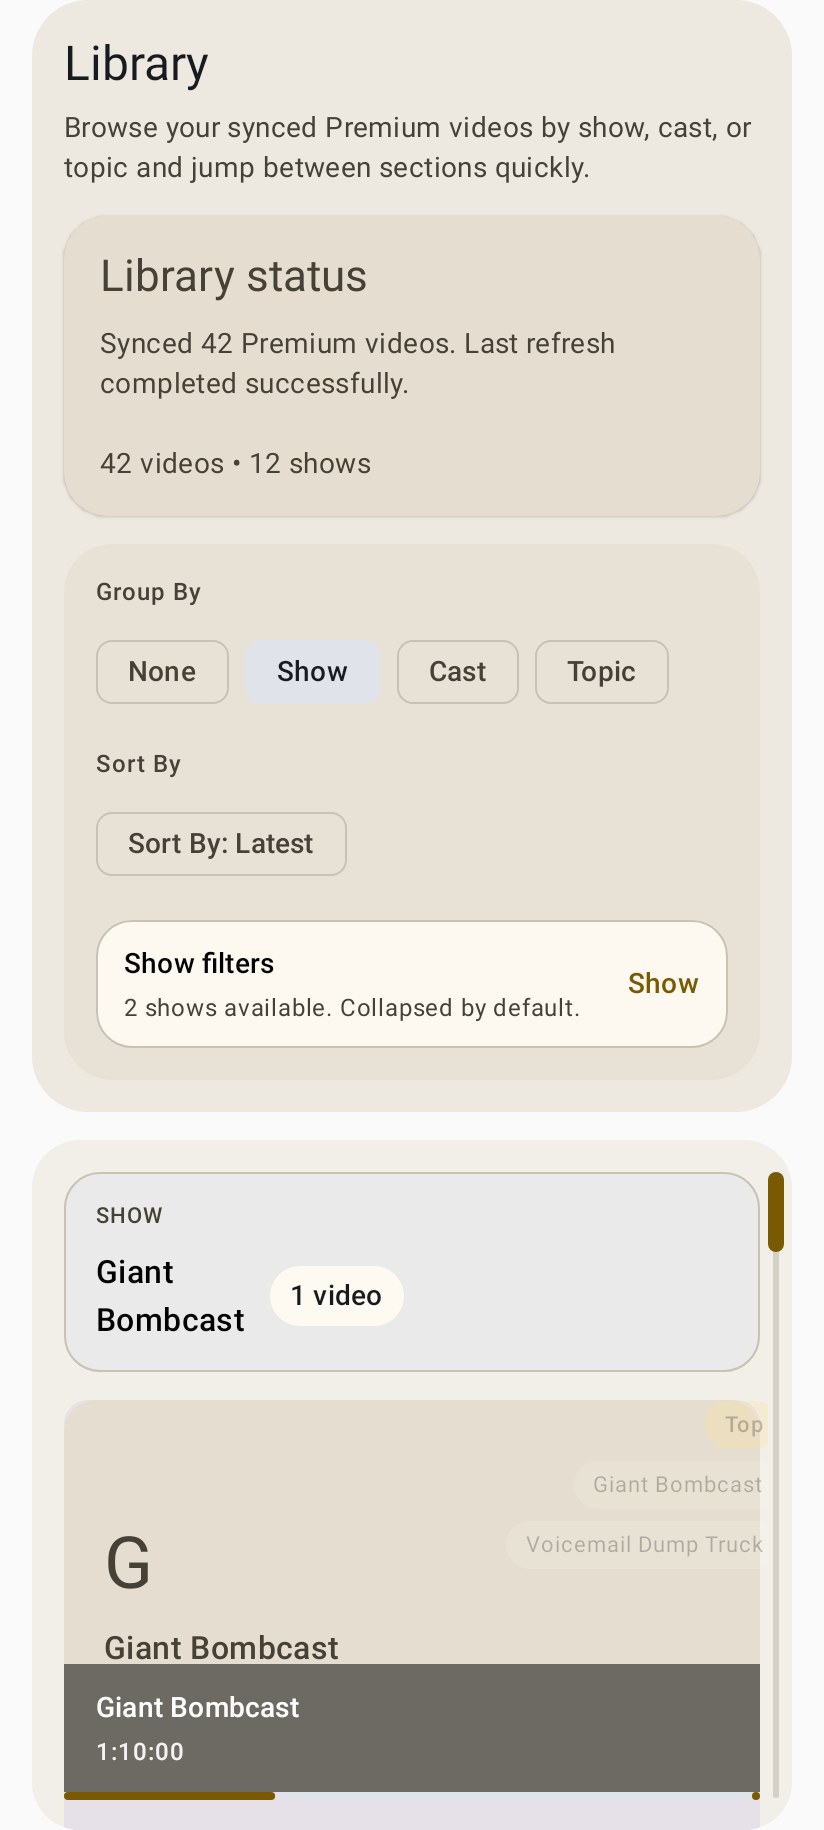
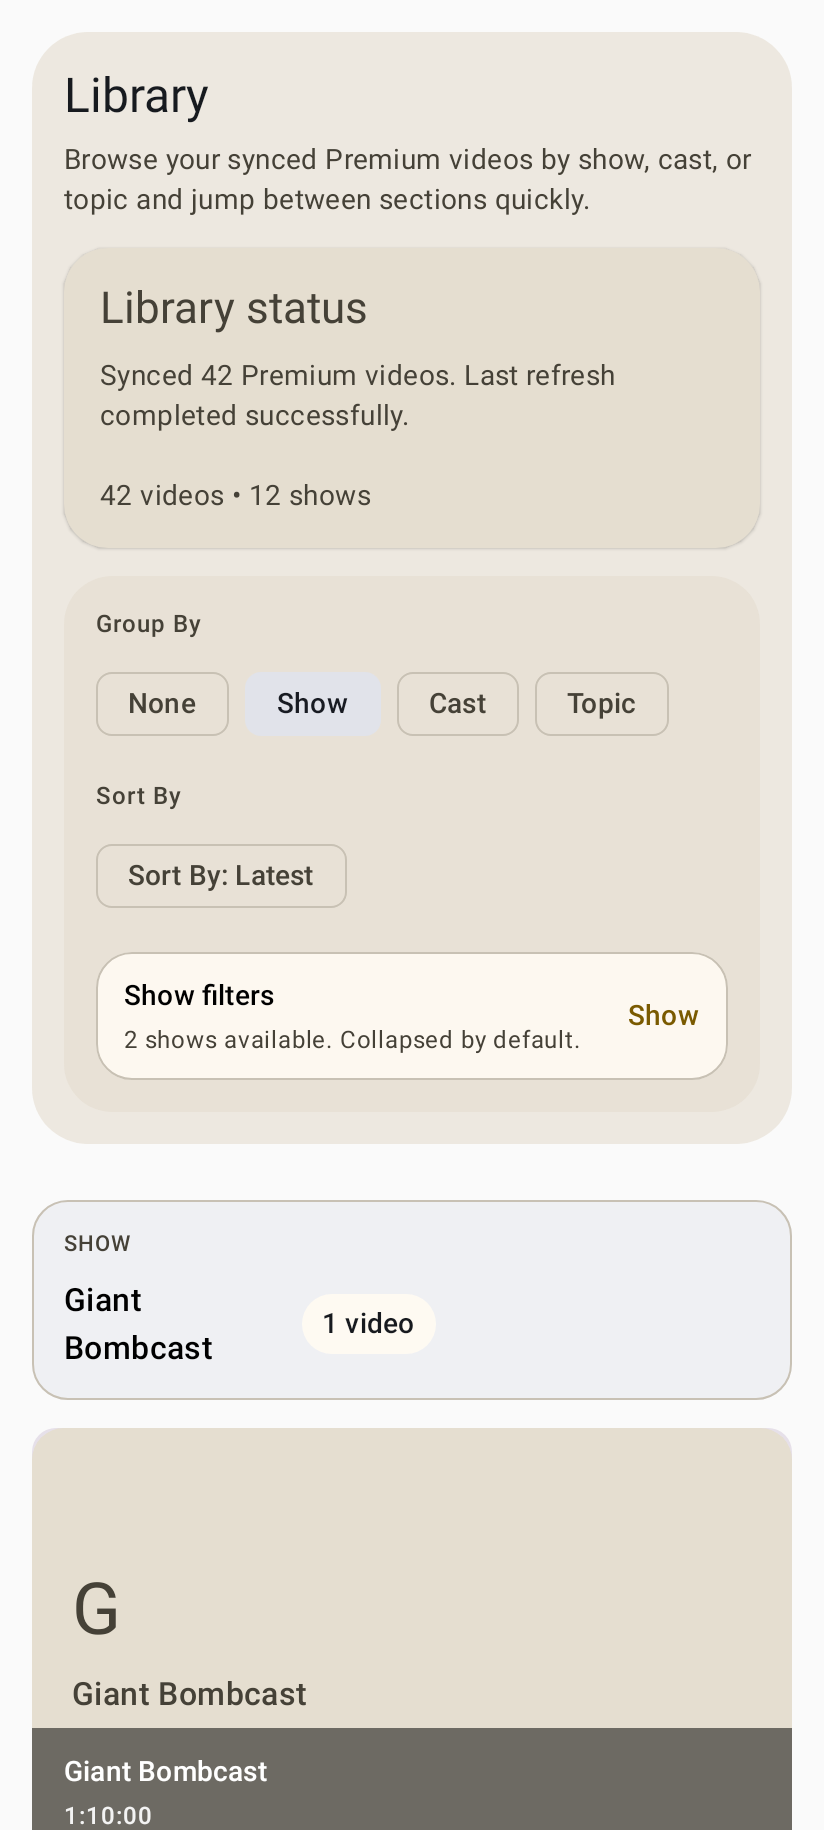
Unify library scrolling input handling

diff --git a/feature/library/src/main/java/com/looktube/feature/library/LibraryRoute.kt b/feature/library/src/main/java/com/looktube/feature/library/LibraryRoute.kt
@@ -47,8 +47,6 @@ import androidx.compose.runtime.Composable
 import androidx.compose.runtime.LaunchedEffect
 import androidx.compose.runtime.derivedStateOf
 import androidx.compose.runtime.getValue
-import androidx.compose.runtime.mutableFloatStateOf
-import androidx.compose.runtime.mutableIntStateOf
 import androidx.compose.runtime.mutableStateOf
 import androidx.compose.runtime.remember
 import androidx.compose.runtime.rememberCoroutineScope
@@ -59,14 +57,9 @@ import androidx.compose.ui.Modifier
 import androidx.compose.ui.draw.clip
 import androidx.compose.ui.graphics.Color
 import androidx.compose.ui.graphics.graphicsLayer
-import androidx.compose.ui.input.nestedscroll.NestedScrollConnection
-import androidx.compose.ui.input.nestedscroll.NestedScrollSource
-import androidx.compose.ui.input.nestedscroll.nestedScroll
 import androidx.compose.ui.input.pointer.pointerInput
 import androidx.compose.ui.layout.ContentScale
-import androidx.compose.ui.layout.onSizeChanged
 import androidx.compose.ui.platform.LocalDensity
-import androidx.compose.ui.geometry.Offset
 import androidx.compose.ui.text.style.TextAlign
 import androidx.compose.ui.text.font.FontWeight
 import androidx.compose.ui.text.style.TextOverflow
@@ -102,6 +95,7 @@ fun LibraryRoute(
     onVideoSelected: (String) -> Unit,
 ) {
     val density = LocalDensity.current
+    val listTopContentPaddingPx = with(density) { LIST_TOP_CONTENT_PADDING.roundToPx() }
     var sortOption by rememberSaveable { mutableStateOf(LibrarySortOption.Latest) }
     var selectedSeriesFilter by rememberSaveable { mutableStateOf(ALL_SERIES_FILTER) }
     var groupingMode by rememberSaveable { mutableStateOf(HeuristicGroupingMode.Show) }
@@ -207,28 +201,21 @@ fun LibraryRoute(
         sortedVideos.isNotEmpty() -> TOP_ONLY_RAIL_TEXT_CLEARANCE
         else -> TRACK_ONLY_CONTENT_CLEARANCE
     }
-    var overviewContainerHeightPx by remember { mutableIntStateOf(0) }
-    var collapsedOverviewOffsetPx by remember { mutableFloatStateOf(0f) }
-    val overviewVisibleHeightPx by remember(overviewContainerHeightPx, collapsedOverviewOffsetPx) {
+    val resultsAnchorOffsetPx by remember(listState, listTopContentPaddingPx) {
         derivedStateOf {
-            (overviewContainerHeightPx - collapsedOverviewOffsetPx)
-                .coerceAtLeast(0f)
-        }
-    }
-    val overviewVisibleHeight = with(density) { overviewVisibleHeightPx.toDp() }
-    val isEpisodeListAtTop by remember(listState) {
-        derivedStateOf {
-            listState.firstVisibleItemIndex == 0 && listState.firstVisibleItemScrollOffset == 0
+            listState.layoutInfo.visibleItemsInfo
+                .firstOrNull { it.index == RESULTS_ANCHOR_INDEX }
+                ?.offset
+                ?.minus(listTopContentPaddingPx)
+                ?.coerceAtLeast(0)
+                ?: if (listState.firstVisibleItemIndex >= VIDEO_LIST_START_INDEX) 0 else Int.MAX_VALUE
         }
     }
     val currentJumpTargetIndex by remember(sections, sectionStartIndices, listState) {
         derivedStateOf {
             if (sections.isEmpty()) {
                 0
-            } else if (
-                listState.firstVisibleItemIndex == VIDEO_LIST_START_INDEX &&
-                listState.firstVisibleItemScrollOffset == 0
-            ) {
+            } else if (resultsAnchorOffsetPx > 0 || listState.firstVisibleItemIndex < VIDEO_LIST_START_INDEX) {
                 0
             } else {
                 1 + sectionStartIndices.indexOfLast { it <= listState.firstVisibleItemIndex }
@@ -250,46 +237,8 @@ fun LibraryRoute(
             jumpTargets.isNotEmpty() && (
                 railEmphasized ||
                     jumpTargets.size > 1 ||
-                    listState.firstVisibleItemIndex >= VIDEO_LIST_START_INDEX
+                    resultsAnchorOffsetPx == 0
                 )
-        }
-    }
-
-    val overviewCollapseConnection = remember(overviewContainerHeightPx, isEpisodeListAtTop) {
-        object : NestedScrollConnection {
-            override fun onPreScroll(available: Offset, source: NestedScrollSource): Offset {
-                if (source != NestedScrollSource.UserInput) {
-                    return Offset.Zero
-                }
-                if (available.y >= 0f || overviewContainerHeightPx == 0) {
-                    return Offset.Zero
-                }
-                val previousOffset = collapsedOverviewOffsetPx
-                val newOffset = (collapsedOverviewOffsetPx - available.y)
-                    .coerceIn(0f, overviewContainerHeightPx.toFloat())
-                collapsedOverviewOffsetPx = newOffset
-                val consumed = newOffset - previousOffset
-                return Offset(x = 0f, y = -consumed)
-            }
-
-            override fun onPostScroll(
-                consumed: Offset,
-                available: Offset,
-                source: NestedScrollSource,
-            ): Offset {
-                if (source != NestedScrollSource.UserInput) {
-                    return Offset.Zero
-                }
-                if (available.y <= 0f || !isEpisodeListAtTop || collapsedOverviewOffsetPx <= 0f) {
-                    return Offset.Zero
-                }
-                val previousOffset = collapsedOverviewOffsetPx
-                val newOffset = (collapsedOverviewOffsetPx - available.y)
-                    .coerceIn(0f, overviewContainerHeightPx.toFloat())
-                collapsedOverviewOffsetPx = newOffset
-                val consumedByParent = previousOffset - newOffset
-                return Offset(x = 0f, y = consumedByParent)
-            }
         }
     }
     LaunchedEffect(currentJumpTargetIndex, jumpTargets.size) {
@@ -313,150 +262,139 @@ fun LibraryRoute(
         }
     }
 
-    Box(
+    BoxWithConstraints(
         modifier = Modifier
             .fillMaxSize()
-            .padding(paddingValues)
-            .nestedScroll(overviewCollapseConnection),
+            .padding(paddingValues),
     ) {
-        Column(
-            modifier = Modifier
-                .fillMaxWidth()
-                .offset(y = with(density) { -collapsedOverviewOffsetPx.toDp() })
-                .onSizeChanged { size ->
-                    overviewContainerHeightPx = size.height
-                    collapsedOverviewOffsetPx = collapsedOverviewOffsetPx
-                        .coerceIn(0f, size.height.toFloat())
-                },
-        ) {
-            LibraryOverviewPanel(
-                modifier = Modifier
-                    .padding(horizontal = 16.dp),
-                libraryStatusBody = libraryStatusBody,
-                groupingMode = groupingMode,
-                onGroupingModeChanged = { groupingMode = it },
-                sortOption = sortOption,
-                sortMenuExpanded = sortMenuExpanded,
-                onSortMenuExpandedChanged = { sortMenuExpanded = it },
-                onSortOptionChanged = { sortOption = it },
-                seriesFilters = seriesFilters,
-                selectedSeriesFilter = selectedSeriesFilter,
-                onSeriesFilterChanged = { selectedSeriesFilter = it },
-                totalVideoCount = videos.size,
-                filteredVideoCount = filteredVideos.size,
-            )
-            Spacer(modifier = Modifier.height(14.dp))
+        val railTopOffset = if (resultsAnchorOffsetPx == Int.MAX_VALUE) {
+            maxHeight
+        } else {
+            resultsAnchorOffsetPx.dp
         }
-
-        BoxWithConstraints(
-            modifier = Modifier
-                .fillMaxSize()
-                .padding(top = overviewVisibleHeight)
-                .padding(horizontal = 16.dp),
-        ) {
-            val railVerticalPadding = 16.dp
-            val railHeight = (maxHeight - (railVerticalPadding * 2)).coerceAtLeast(0.dp)
+        val railHeight = (maxHeight - railTopOffset).coerceAtLeast(0.dp)
+        if (resultsAnchorOffsetPx != Int.MAX_VALUE) {
             Surface(
-                modifier = Modifier.fillMaxSize(),
+                modifier = Modifier
+                    .fillMaxWidth()
+                    .offset(y = railTopOffset)
+                    .height(railHeight)
+                    .padding(horizontal = 16.dp),
                 shape = RoundedCornerShape(24.dp),
                 color = MaterialTheme.colorScheme.surfaceVariant.copy(alpha = 0.42f),
                 tonalElevation = 2.dp,
-            ) {
-                Box(modifier = Modifier.fillMaxSize()) {
-                    LazyColumn(
-                        state = listState,
-                        modifier = Modifier
-                            .fillMaxSize()
-                            .padding(horizontal = 16.dp),
-                        verticalArrangement = Arrangement.spacedBy(14.dp),
-                        contentPadding = PaddingValues(vertical = 16.dp),
+            ) {}
+        }
+        LazyColumn(
+            state = listState,
+            modifier = Modifier
+                .fillMaxSize()
+                .padding(horizontal = 16.dp),
+            verticalArrangement = Arrangement.spacedBy(14.dp),
+            contentPadding = PaddingValues(vertical = LIST_TOP_CONTENT_PADDING),
+        ) {
+            item(key = "library-overview-panel") {
+                LibraryOverviewPanel(
+                    libraryStatusBody = libraryStatusBody,
+                    groupingMode = groupingMode,
+                    onGroupingModeChanged = { groupingMode = it },
+                    sortOption = sortOption,
+                    sortMenuExpanded = sortMenuExpanded,
+                    onSortMenuExpandedChanged = { sortMenuExpanded = it },
+                    onSortOptionChanged = { sortOption = it },
+                    seriesFilters = seriesFilters,
+                    selectedSeriesFilter = selectedSeriesFilter,
+                    onSeriesFilterChanged = { selectedSeriesFilter = it },
+                    totalVideoCount = videos.size,
+                    filteredVideoCount = filteredVideos.size,
+                )
+            }
+            item(key = "results-anchor") {
+                Spacer(modifier = Modifier.fillMaxWidth().height(0.dp))
+            }
+            if (sortedVideos.isEmpty()) {
+                item {
+                    Card(
+                        modifier = Modifier.fillMaxWidth(),
                     ) {
-                        if (sortedVideos.isEmpty()) {
-                            item {
-                                Card(
-                                    modifier = Modifier.fillMaxWidth(),
-                                ) {
-                                    Text(
-                                        text = when {
-                                            videos.isEmpty() -> "Sync your Premium feed on Auth to load your library."
-                                            selectedSeriesFilter != ALL_SERIES_FILTER -> "No videos match the current show filter."
-                                            else -> "No videos are available in your synced library yet."
-                                        },
-                                        modifier = Modifier.padding(
-                                            start = 16.dp,
-                                            top = 16.dp,
-                                            end = 16.dp + railTextClearance,
-                                            bottom = 16.dp,
-                                        ),
-                                    )
-                                }
-                            }
-                        } else if (!isGrouped) {
-                            items(
-                                items = sortedVideos,
-                                key = { video -> video.id },
-                            ) { video ->
-                                VideoListCard(
-                                    video = video,
-                                    progress = playbackProgress[video.id],
-                                    dismissDetailsSignal = listState.isScrollInProgress,
-                                    textEndPadding = railTextClearance,
-                                    modifier = Modifier.clickable { onVideoSelected(video.id) },
-                                )
-                            }
-                        } else {
-                            sections.forEach { section ->
-                                item(key = "section-${section.title}") {
-                                    SeriesSectionHeader(
-                                        section = section,
-                                        textEndPadding = railTextClearance,
-                                    )
-                                }
-                                items(
-                                    items = section.videos,
-                                    key = { video -> "${section.title}-${video.id}" },
-                                ) { video ->
-                                    VideoListCard(
-                                        video = video,
-                                        progress = playbackProgress[video.id],
-                                        dismissDetailsSignal = listState.isScrollInProgress,
-                                        textEndPadding = railTextClearance,
-                                        modifier = Modifier.clickable { onVideoSelected(video.id) },
-                                    )
-                                }
-                            }
-                        }
+                        Text(
+                            text = when {
+                                videos.isEmpty() -> "Sync your Premium feed on Auth to load your library."
+                                selectedSeriesFilter != ALL_SERIES_FILTER -> "No videos match the current show filter."
+                                else -> "No videos are available in your synced library yet."
+                            },
+                            modifier = Modifier.padding(
+                                start = 16.dp,
+                                top = 16.dp,
+                                end = 16.dp + railTextClearance,
+                                bottom = 16.dp,
+                            ),
+                        )
                     }
-
-                    if (railHasScrollableContent && railHeight > 0.dp) {
-                        ShowJumpRail(
-                            targets = jumpTargets,
-                            contentListState = listState,
-                            listState = showRailState,
-                            currentTargetIndex = currentJumpTargetIndex,
-                            isEmphasized = railEmphasized,
-                            showLabels = showRailLabels,
-                            hasWideLabels = hasWideRailLabels,
-                            modifier = Modifier
-                                .align(Alignment.TopEnd)
-                                .padding(top = railVerticalPadding, end = 4.dp, bottom = railVerticalPadding)
-                                .height(railHeight),
-                            onTargetSelected = { target ->
-                                railEmphasized = true
-                                scope.launch {
-                                    listState.scrollToItem(target.itemIndex)
-                                }
-                            },
-                            onScrollFractionChanged = { fraction ->
-                                railEmphasized = true
-                                scope.launch {
-                                    listState.scrollToItem(listState.targetItemIndexForFraction(fraction))
-                                }
-                            },
+                }
+            } else if (!isGrouped) {
+                items(
+                    items = sortedVideos,
+                    key = { video -> video.id },
+                ) { video ->
+                    VideoListCard(
+                        video = video,
+                        progress = playbackProgress[video.id],
+                        dismissDetailsSignal = listState.isScrollInProgress,
+                        textEndPadding = railTextClearance,
+                        modifier = Modifier.clickable { onVideoSelected(video.id) },
+                    )
+                }
+            } else {
+                sections.forEach { section ->
+                    item(key = "section-${section.title}") {
+                        SeriesSectionHeader(
+                            section = section,
+                            textEndPadding = railTextClearance,
+                        )
+                    }
+                    items(
+                        items = section.videos,
+                        key = { video -> "${section.title}-${video.id}" },
+                    ) { video ->
+                        VideoListCard(
+                            video = video,
+                            progress = playbackProgress[video.id],
+                            dismissDetailsSignal = listState.isScrollInProgress,
+                            textEndPadding = railTextClearance,
+                            modifier = Modifier.clickable { onVideoSelected(video.id) },
                         )
                     }
                 }
             }
+        }
+        if (railHasScrollableContent && railHeight > 0.dp) {
+            ShowJumpRail(
+                targets = jumpTargets,
+                contentListState = listState,
+                listState = showRailState,
+                currentTargetIndex = currentJumpTargetIndex,
+                isEmphasized = railEmphasized,
+                showLabels = showRailLabels,
+                hasWideLabels = hasWideRailLabels,
+                modifier = Modifier
+                    .align(Alignment.TopEnd)
+                    .offset(y = railTopOffset)
+                    .padding(top = LIST_TOP_CONTENT_PADDING, end = 4.dp, bottom = LIST_TOP_CONTENT_PADDING)
+                    .height((railHeight - (LIST_TOP_CONTENT_PADDING * 2)).coerceAtLeast(0.dp)),
+                onTargetSelected = { target ->
+                    railEmphasized = true
+                    scope.launch {
+                        listState.scrollToItem(target.itemIndex)
+                    }
+                },
+                onScrollFractionChanged = { fraction ->
+                    railEmphasized = true
+                    scope.launch {
+                        listState.scrollToItem(listState.targetItemIndexForFraction(fraction))
+                    }
+                },
+            )
         }
     }
 }
@@ -750,8 +688,10 @@ internal enum class LibrarySortOption(val label: String) {
 }
 
 private const val ALL_SERIES_FILTER = "All shows"
-private const val VIDEO_LIST_START_INDEX = 0
+private const val RESULTS_ANCHOR_INDEX = 1
+private const val VIDEO_LIST_START_INDEX = 2
 private const val RAIL_IDLE_FADE_DELAY_MS = 1_400L
+private val LIST_TOP_CONTENT_PADDING = 16.dp
 private val JUMP_RAIL_WIDTH = 176.dp
 private val TOP_ONLY_RAIL_WIDTH = 84.dp
 private val JUMP_RAIL_LABEL_WIDTH = 156.dp
